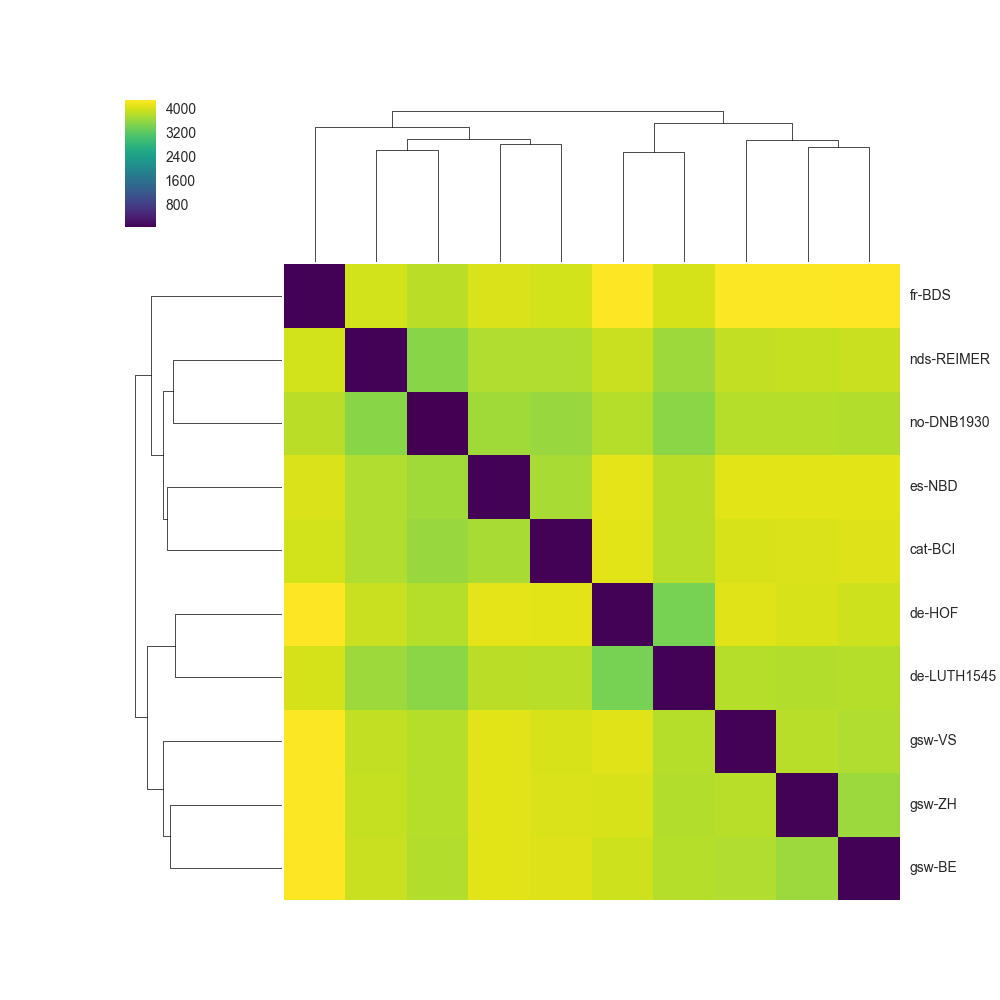
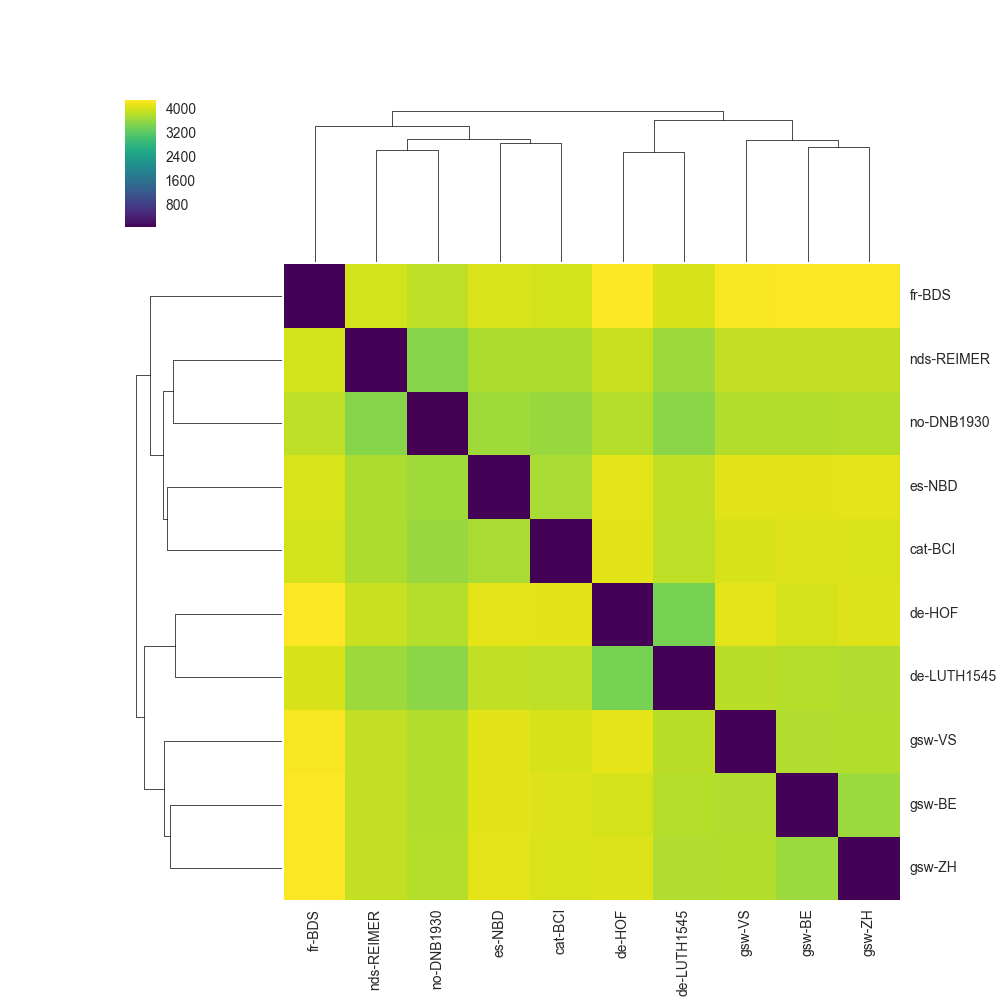
Label heatmap x-axis vertically

diff --git a/cluster.py b/cluster.py
@@ -31,5 +31,6 @@ if __name__ == '__main__':
     from colormaps import *
 
     dm = dist_matrix(texts, zipstance)
-    sns.clustermap(dm, standard_scale=1, xticklabels=False, cmap=viridis)
+    hm = sns.clustermap(dm, standard_scale=None, method='ward', cmap=viridis)
+    plt.setp(hm.ax_heatmap.xaxis.get_majorticklabels(), rotation='vertical')
     plt.show()
